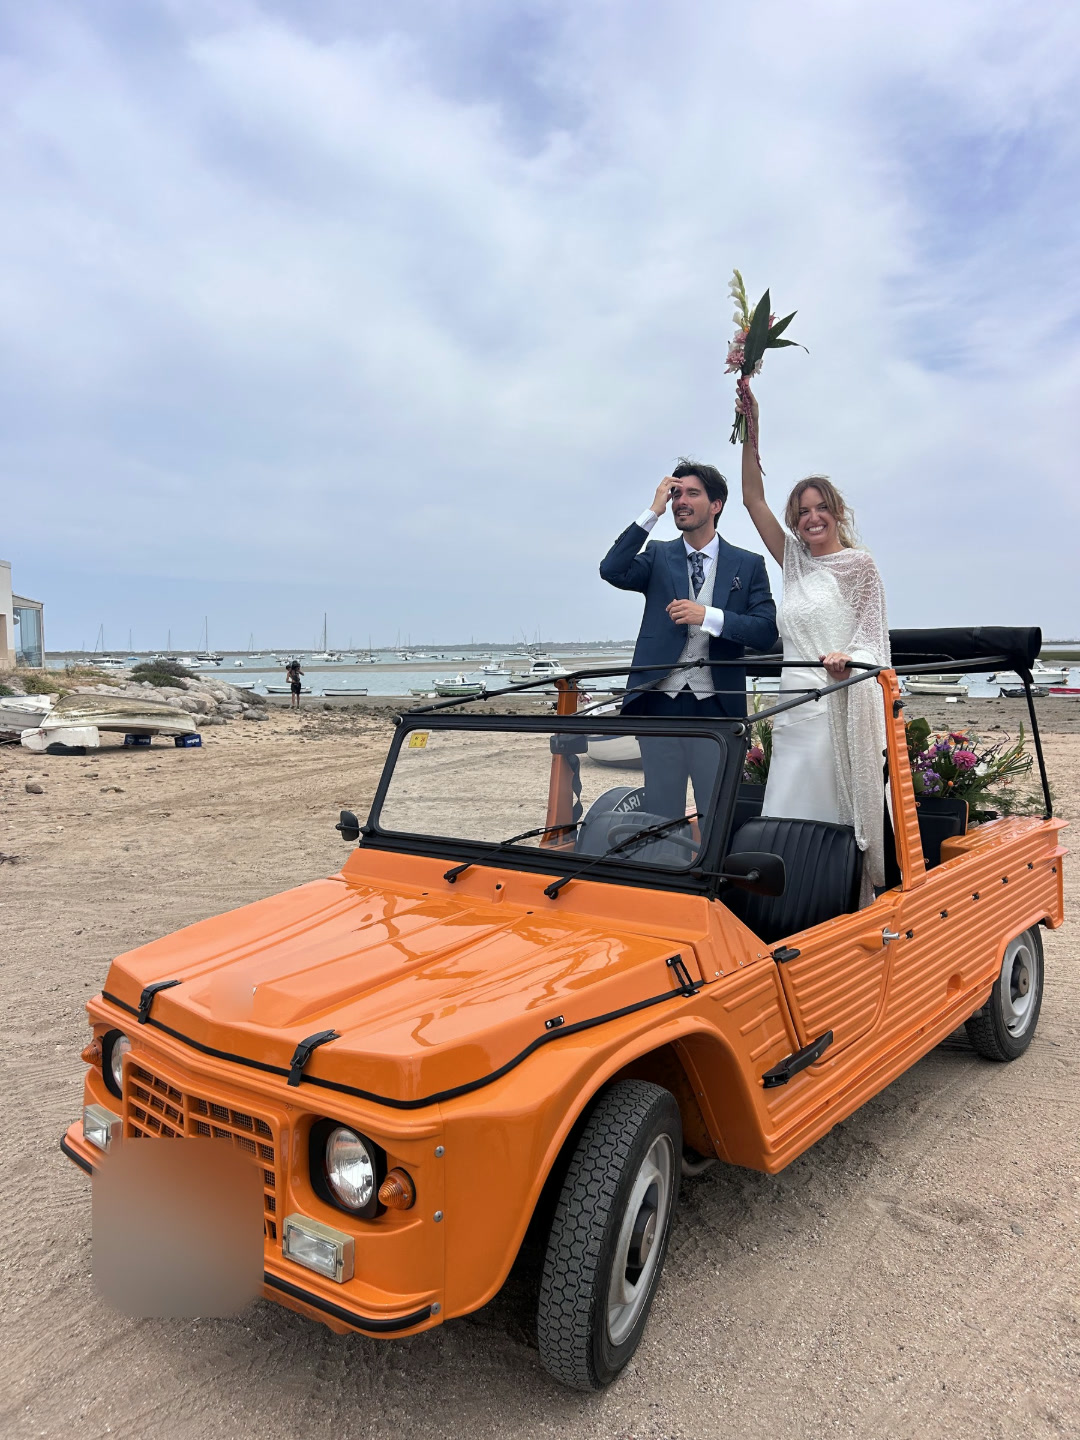
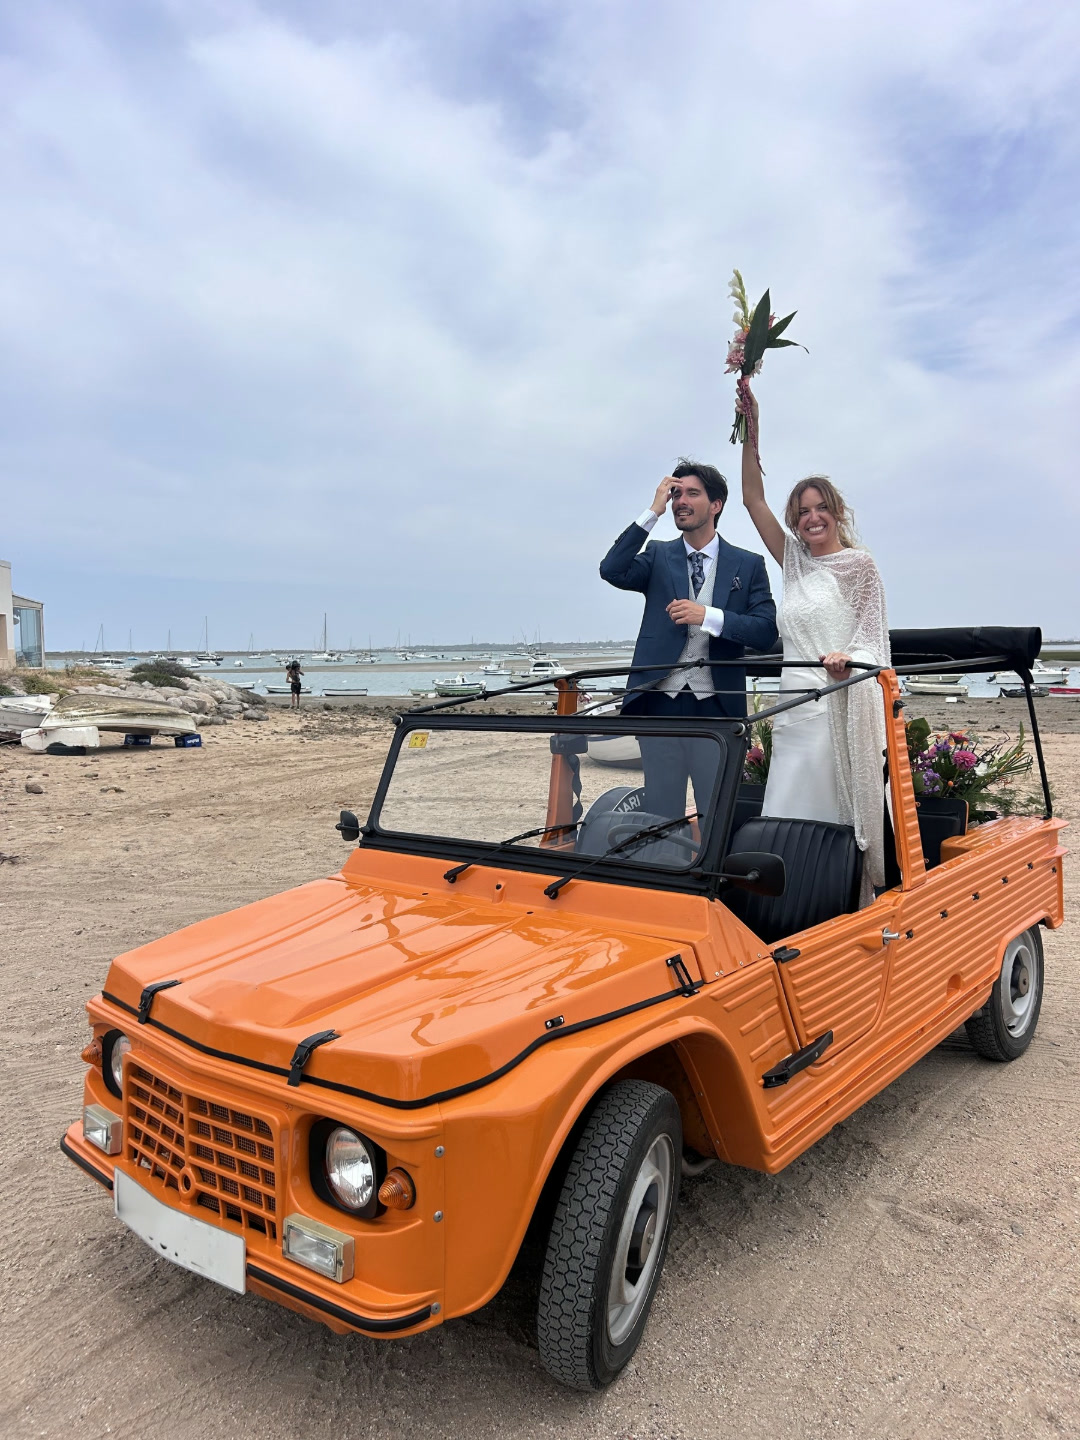
Sustituye el difuminado de matrículas por placa lisa en las fotos
Añade herramientas/material/retocar_foto.py: deja la matrícula como placa
lisa y borra los emblemas sobre chapa. Se aplica a F0345, F0524, F0750 y
F1839 y se actualizan las piezas del grid, revision-marca y CLAUDE.md.

Changed region(s): [[0.0611, 0.7812, 0.2444, 0.9375], [0.2139, 0.6875, 0.2444, 0.7188]]

diff --git a/redes/instagram/publicaciones/grid-semilla/piezas.html b/redes/instagram/publicaciones/grid-semilla/piezas.html
@@ -115,7 +115,8 @@ const idea = (n, id, pos, texto, detalle) => `
 
 const PIEZAS = {
   // Fotos únicas: sin texto, la foto manda
-  'foto-f0345': [`<div class="slide">${foto('F0345', '33% 50%')}</div>`],
+  // Zoom ×1,1 desde arriba: deja fuera la placa roja del frontal, que no se puede retocar bien
+  'foto-f0345': [`<div class="slide"><img src="${FOTOS}F0345.jpg" style="object-position:33% 0%;transform:scale(1.1);transform-origin:33% 0%" alt=""></div>`],
   'foto-f0524': [`<div class="slide">${foto('F0524', '24% 50%')}</div>`],
   'foto-f1839': [`<div class="slide">${foto('F1839')}</div>`],
 

diff --git a/herramientas/material/retocar_foto.py b/herramientas/material/retocar_foto.py
@@ -1,0 +1,108 @@
+"""Tapa matrículas y emblemas de una foto sin que se note (alternativa al difuminado).
+
+Uso:
+    python retocar_foto.py <entrada> <salida> [--placa X,Y,X,Y,...] [--emblema X,Y,AN,AL]
+                           [--conservar X,Y,AN,AL --desde <foto>] [--umbral 28] [--dilatar 7]
+
+- `--placa`: polígono interior de la matrícula (al menos 4 vértices, en píxeles de la entrada).
+  Se borran los caracteres y la placa se rellena con su propio sombreado: queda una placa lisa,
+  con su forma, su marco y la banda azul europea. Se puede repetir.
+- `--emblema`: caja de un emblema sobre chapa lisa (capó, calandra). Se rellena con el color
+  de la chapa de alrededor (inpainting). Se puede repetir.
+- `--conservar` + `--desde`: copia esa caja de otra foto del mismo tamaño (por ejemplo, la versión
+  difuminada) cuando una zona no se puede retocar bien y se va a dejar fuera del encuadre.
+- `--umbral` y `--dilatar`: si quedan restos de letra, bájese el umbral (16) y súbase la dilatación (11).
+
+Para marcar el polígono, abre la foto en cualquier visor con coordenadas y apunta las esquinas
+por dentro del borde de la placa. Revisa siempre el resultado a tamaño real: el retoque no sustituye
+a `revision-marca`. Necesita opencv-python.
+"""
+import argparse
+
+import cv2
+import numpy as np
+
+
+def placa_lisa(img, poli, umbral=28, dil=7):
+    m = np.zeros(img.shape[:2], np.uint8)
+    cv2.fillPoly(m, [np.array(poli, np.int32)], 1)
+    gris = cv2.cvtColor(img, cv2.COLOR_BGR2GRAY).astype(np.float32)
+    hsv = cv2.cvtColor(img, cv2.COLOR_BGR2HSV)
+    mediana = np.median(gris[m > 0])
+    azul = (hsv[..., 1] > 90) & (hsv[..., 0] > 95) & (hsv[..., 0] < 130)
+    letras = ((gris < mediana - umbral) & ~azul).astype(np.uint8) & m
+    letras = cv2.dilate(letras, np.ones((dil, dil), np.uint8)) & m
+    # Sombreado de la placa a partir de sus píxeles blancos (convolución normalizada)
+    blanco = (m & (1 - letras) & (~azul).astype(np.uint8)).astype(np.float32)
+    f = img.astype(np.float32)
+    num = cv2.GaussianBlur(f * blanco[..., None], (0, 0), 12)
+    den = cv2.GaussianBlur(blanco, (0, 0), 12)[..., None] + 1e-4
+    ruido = np.random.default_rng(0).normal(0, 2.0, img.shape).astype(np.float32)
+    relleno = np.clip(num / den + ruido, 0, 255)
+    a = cv2.GaussianBlur(letras.astype(np.float32), (0, 0), 1.5)[..., None]
+    return (relleno * a + f * (1 - a)).astype(np.uint8)
+
+
+def emblema(img, x, y, w, h):
+    pad = int(0.25 * max(w, h))
+    x0, y0 = max(0, x - pad), max(0, y - pad)
+    x1, y1 = min(img.shape[1], x + w + pad), min(img.shape[0], y + h + pad)
+    crop = img[y0:y1, x0:x1].copy()
+    anillo = np.ones(crop.shape[:2], bool)
+    anillo[pad // 2:-(pad // 2) or None, pad // 2:-(pad // 2) or None] = False
+    ref = np.median(crop[anillo], axis=0)
+    lab = cv2.cvtColor(crop, cv2.COLOR_BGR2LAB).astype(np.float32)
+    ref_lab = cv2.cvtColor(np.uint8([[ref]]), cv2.COLOR_BGR2LAB).astype(np.float32)[0, 0]
+    dist = np.linalg.norm(lab - ref_lab, axis=2)
+    mask = np.zeros(crop.shape[:2], np.uint8)
+    cx, cy = x - x0, y - y0
+    mask[cy:cy + h, cx:cx + w] = (dist[cy:cy + h, cx:cx + w] > 22).astype(np.uint8)
+    mask = cv2.dilate(mask, np.ones((7, 7), np.uint8))
+    rel = cv2.inpaint(crop, mask * 255, 11, cv2.INPAINT_TELEA)
+    alfa = np.zeros(crop.shape[:2], np.float32)
+    alfa[cv2.dilate(mask, np.ones((15, 15), np.uint8)) > 0] = 1
+    alfa = cv2.GaussianBlur(alfa, (0, 0), 4)[..., None]
+    img[y0:y1, x0:x1] = (rel * alfa + crop * (1 - alfa)).astype(np.uint8)
+
+
+def numeros(texto, n=None):
+    v = [int(round(float(t))) for t in texto.split(",")]
+    if n and len(v) != n:
+        raise SystemExit(f"Se esperaban {n} números: {texto}")
+    return v
+
+
+def main():
+    ap = argparse.ArgumentParser(description=__doc__, formatter_class=argparse.RawDescriptionHelpFormatter)
+    ap.add_argument("entrada")
+    ap.add_argument("salida")
+    ap.add_argument("--placa", action="append", default=[])
+    ap.add_argument("--emblema", action="append", default=[])
+    ap.add_argument("--conservar", action="append", default=[])
+    ap.add_argument("--desde")
+    ap.add_argument("--umbral", type=float, default=28)
+    ap.add_argument("--dilatar", type=int, default=7)
+    a = ap.parse_args()
+
+    img = cv2.imread(a.entrada)
+    if img is None:
+        raise SystemExit(f"No se puede abrir: {a.entrada}")
+    for e in a.emblema:
+        emblema(img, *numeros(e, 4))
+    for p in a.placa:
+        v = numeros(p)
+        if len(v) < 8 or len(v) % 2:
+            raise SystemExit(f"El polígono necesita al menos 4 vértices X,Y: {p}")
+        img = placa_lisa(img, list(zip(v[::2], v[1::2])), a.umbral, a.dilatar)
+    if a.conservar:
+        otra = cv2.imread(a.desde) if a.desde else None
+        if otra is None or otra.shape != img.shape:
+            raise SystemExit("--conservar necesita --desde con una foto del mismo tamaño")
+        for c in a.conservar:
+            x, y, w, h = numeros(c, 4)
+            img[y:y + h, x:x + w] = otra[y:y + h, x:x + w]
+    cv2.imwrite(a.salida, img, [cv2.IMWRITE_JPEG_QUALITY, 95])
+
+
+if __name__ == "__main__":
+    main()

diff --git a/CLAUDE.md b/CLAUDE.md
@@ -48,7 +48,7 @@ Detalle completo en [docs/cliente/brief.md](docs/cliente/brief.md). En resumen:
 3. **No inventes datos**: ni precios, ni número de bodas, ni testimonios, ni nombres. Si falta algo, pon un marcador `[ASÍ]`.
 4. **Famosos y prensa**: hay consentimiento, pero se usa con elegancia y como prueba social, no como reclamo sensacionalista.
 5. **Menores, sin cara.** Se evita que aparezcan caras de niños o de menores de edad. Si una foto o un vídeo los muestra, se descarta, se recorta o se difumina la cara antes de publicar, aunque los padres hayan dado consentimiento a la boda.
-6. **Matrículas, nunca.** La matrícula de ningún coche (los nuestros ni los de terceros) puede ser legible: se recorta, se tapa o se difumina.
+6. **Matrículas, nunca.** La matrícula de ningún coche (los nuestros ni los de terceros) puede ser legible: se recorta, se tapa o se difumina. En fotos se prefiere la placa lisa de `herramientas/material/retocar_foto.py`, que no se nota.
 7. **Sin "Citroën" y sin atarnos a Sevilla**: ver §2.
 8. **Coherencia**: el nombre de la marca, los nombres de los servicios y los datos de contacto deben ser idénticos en todos los ficheros. Salen de `docs/cliente/brief.md`.
 
@@ -68,7 +68,7 @@ Mehari/
 ├─ redes/instagram/          ← publicaciones, calendario editorial, reels/<fecha>_<tema>/ (fuente HyperFrames) y destacadas/ (portadas)
 ├─ marca/                    ← identidad: README (colores, tipos, logo), tokens.css y propuestas/
 ├─ web/                      ← landing (más adelante)
-├─ herramientas/material/    ← scripts para analizar, descartar, clasificar y seleccionar lotes de fotos y vídeos, y para difuminar matrículas y logos
+├─ herramientas/material/    ← scripts para analizar, descartar, clasificar y seleccionar lotes de fotos y vídeos, para difuminar matrículas y logos en vídeo y para dejarlos lisos en fotos
 └─ Referencia/               ← material del cliente: dossiers, logos antiguos, fotos, prensa
 ```
 

diff --git a/docs/decisiones.md b/docs/decisiones.md
@@ -36,3 +36,4 @@ Una fila por cada decisión. Las más recientes van abajo.
 | 2026-10-19 | El vídeo del iPhone (HLG) se convierte a SDR BT.709 antes de montarlo, y lo que no se puede recortar (chevrones del volante, matrículas) se difumina con `herramientas/material/difuminar.py` | Sin conversión, el naranja sale amarillo y el render queda marcado como HDR; los chevrones y las matrículas aparecen en casi todos los planos | Equipo |
 | 2026-10-27 | Se producen las 5 piezas estáticas del grid semilla (3 fotos y 2 carruseles) en `redes/instagram/publicaciones/grid-semilla/`. Cambian cuatro fotos del plan de `perfil-redes.md` §8 y el reel de V066/V067 se sustituye por uno de V063–V065 | F0538 no enseña el coche, F2131 está a baja resolución y V066/V067 ya se descartaron por un menor y una matrícula. Detalle en el README de la carpeta | Equipo |
 | 2026-10-27 | La cuenta @mehari.we se conecta a Metricool (plan gratis) y a Claude Code por su MCP oficial, para leer estadísticas. Publicar por API sigue pendiente de la decisión de la semana 5 | Medir desde la primera publicación sin depender de un tercero para publicar | Equipo |
+| 2026-10-27 | En fotos, las matrículas se dejan como placa lisa y los emblemas sobre chapa se borran (`herramientas/material/retocar_foto.py`) en lugar de difuminarlos. El difuminado se queda para vídeo | El rectángulo borroso llamaba más la atención que la matrícula. Se aplicó a F0345, F0524, F0750 y F1839 | Equipo |

diff --git a/.claude/skills/revision-marca/SKILL.md b/.claude/skills/revision-marca/SKILL.md
@@ -33,9 +33,9 @@ Abre la imagen y revisa:
 - Pegatinas, camisetas o merchandising con el sello circular (Giralda, Torre del Oro y palmeras) o con la "M" tricolor.
 - Marcas de agua o logos en las esquinas (las páginas de los dossiers llevan la "M" arriba a la derecha).
 - Portadas y páginas de texto de los dossiers: no se usan tal cual.
-- **Matrículas** de cualquier coche, también de fondo: no pueden leerse. Se recorta, se tapa o se difumina.
+- **Matrículas** de cualquier coche, también de fondo: no pueden leerse. Por orden de preferencia: se recorta; en fotos, placa lisa con `herramientas/material/retocar_foto.py` (no se nota); y solo si no hay otra forma (vídeo, placa muy pequeña), se difumina. Un rectángulo borroso llama más la atención que la matrícula.
 - **Caras de niños o menores**, también entre los invitados de fondo: se evita que aparezcan. Si salen, se recorta o se difumina la cara; si no se puede sin estropear la foto, NO APTA.
-- Logos o el nombre **"Citroën"** en el coche (chevrones en el capó, rótulos, llaveros) o en el entorno.
+- Logos o el nombre **"Citroën"** en el coche (chevrones en el capó, rótulos, llaveros) o en el entorno. En fotos, los chevrones sobre chapa lisa se borran con `retocar_foto.py --emblema`; la placa roja del frontal no queda bien rellenada y se deja fuera del encuadre.
 
 Resultado por cada imagen: **APTA**, **APTA CON RECORTE** (indica el encuadre) o **NO APTA** (indica el motivo).
 

diff --git a/redes/instagram/publicaciones/grid-semilla/README.md b/redes/instagram/publicaciones/grid-semilla/README.md
@@ -22,7 +22,7 @@ Los JPEG están en `jpg/<pieza>/NN.jpg`, en el orden en que se suben.
 
 ## Revisión de marca
 
-Todas las fotos salen de `redes/instagram/destacadas/historias/limpias/`, que ya tienen las matrículas y los emblemas difuminados. Al montar se revisaron otra vez a tamaño real los volantes de F1018, F0022, F0329 y F0619: el centro queda tapado por las manos o fuera de plano. Se ve la placa «Méhari» del salpicadero, que sí es nuestra. No hay caras de menores reconocibles (en F0774 y F1018 la gente del fondo es adulta o se ve a lo lejos).
+Todas las fotos salen de `redes/instagram/destacadas/historias/limpias/`. En F0345, F0524, F0750 y F1839 se sustituyó el difuminado, que se notaba mucho, por una placa lisa y los emblemas borrados con `herramientas/material/retocar_foto.py`. La placa roja del frontal de F0345 no queda bien rellenada: sigue difuminada en el fichero y la foto suelta va con un zoom ×1,1 que la deja fuera. Al montar se revisaron otra vez a tamaño real los volantes de F1018, F0022, F0329 y F0619: el centro queda tapado por las manos o fuera de plano. Se ve la placa «Méhari» del salpicadero, que sí es nuestra. No hay caras de menores reconocibles (en F0774 y F1018 la gente del fondo es adulta o se ve a lo lejos).
 
 ## Volver a exportar
 

diff --git a/herramientas/material/README.md b/herramientas/material/README.md
@@ -29,6 +29,7 @@ Fuera de la secuencia, para preparar piezas:
 | Script | Qué hace |
 |---|---|
 | `difuminar.py` | Difumina matrículas, chevrones o caras en un vídeo y sigue la zona fotograma a fotograma. Uso y ejemplos en la cabecera del script. Avisa con `<< REVISAR` si pierde el seguimiento; aun así, revisa el resultado a ojo |
+| `retocar_foto.py` | **Para fotos, en lugar de difuminar.** Deja la matrícula como una placa lisa (borra los caracteres y conserva la placa, su sombra y la banda azul) y borra los emblemas sobre chapa rellenándolos con la chapa de alrededor. Se marca a mano el polígono de cada placa. Uso en la cabecera del script |
 
 **Vídeos del iPhone:** vienen en HDR (HLG). Antes de montarlos, conviértelos a SDR BT.709 con el comando de la cabecera de `difuminar.py`. Si no, el naranja del coche sale amarillo y el render final queda marcado como HDR.
 

diff --git a/redes/instagram/publicaciones/sin-fecha_carrusel_8-fotos-fotografo.md b/redes/instagram/publicaciones/sin-fecha_carrusel_8-fotos-fotografo.md
@@ -23,10 +23,10 @@ Fotos retocadas de `redes/instagram/destacadas/historias/limpias/`. JPEG en `gri
 | 3 | F0329 (brindis al volante) | APTA. Manos sobre el volante |
 | 4 | F1508 (anillos en el asiento trasero) | APTA |
 | 5 | F1853 (junto al mar con barcas) | APTA (retocada) |
-| 6 | F0047 (cesta de flores) | APTA (matrícula difuminada) |
+| 6 | F0047 (cesta de flores) | APTA (no se ve matrícula) |
 | 7 | F1465 (sentados en la trasera del beige) | APTA |
 | 8 | F0619 (a cámara, en marcha) | APTA. Centro del volante tapado |
-| 9 | F0750 (llegada con el cielo rosa) | APTA (retocada) |
+| 9 | F0750 (llegada con el cielo rosa) | APTA (placa lisa y emblema borrado con `retocar_foto.py`) |
 | 10 Cierre | Fondo cal, costillas, CTA | — |
 
 ## Diapositivas

diff --git a/redes/instagram/publicaciones/sin-fecha_foto_beso-ramo-naranja.md b/redes/instagram/publicaciones/sin-fecha_foto_beso-ramo-naranja.md
@@ -12,7 +12,7 @@
 
 ## Material
 
-- F0345 retocada (`destacadas/historias/limpias/`), recorte 3:4 centrado en la pareja. JPEG: `grid-semilla/jpg/foto-f0345/01.jpg`. revision-marca: **APTA** (matrícula difuminada; sin emblemas a la vista).
+- F0345 retocada (`destacadas/historias/limpias/`), recorte 3:4 centrado en la pareja. JPEG: `grid-semilla/jpg/foto-f0345/01.jpg`. revision-marca: **APTA** (emblema del capó borrado con `retocar_foto.py`; la placa roja del frontal queda fuera con un zoom ×1,1).
 - Sin texto encima: la foto manda.
 
 ## Copy

diff --git a/redes/instagram/publicaciones/sin-fecha_foto_atardecer-beige.md b/redes/instagram/publicaciones/sin-fecha_foto_atardecer-beige.md
@@ -12,7 +12,7 @@
 
 ## Material
 
-- F0524 retocada (`destacadas/historias/limpias/`), recorte 3:4 con la pareja y el coche. JPEG: `grid-semilla/jpg/foto-f0524/01.jpg`. revision-marca: **APTA** (matrícula difuminada).
+- F0524 retocada (`destacadas/historias/limpias/`), recorte 3:4 con la pareja y el coche. JPEG: `grid-semilla/jpg/foto-f0524/01.jpg`. revision-marca: **APTA** (placa lisa y emblema borrado con `retocar_foto.py`).
 - Sustituye a F0538 del plan: es la misma pareja y la misma luz, pero en F0538 no sale el coche.
 
 ## Copy

diff --git a/redes/instagram/publicaciones/sin-fecha_foto_playa-naranja.md b/redes/instagram/publicaciones/sin-fecha_foto_playa-naranja.md
@@ -12,7 +12,7 @@
 
 ## Material
 
-- F1839 retocada (`destacadas/historias/limpias/`), vertical 3:4 sin recorte. JPEG: `grid-semilla/jpg/foto-f1839/01.jpg`. revision-marca: **APTA** (matrícula difuminada).
+- F1839 retocada (`destacadas/historias/limpias/`), vertical 3:4 sin recorte. JPEG: `grid-semilla/jpg/foto-f1839/01.jpg`. revision-marca: **APTA** (placa lisa y emblema borrado con `retocar_foto.py`).
 - Sustituye a F2131 (dron) del plan: solo mide 1170×671 y se vería pixelada.
 
 ## Copy
